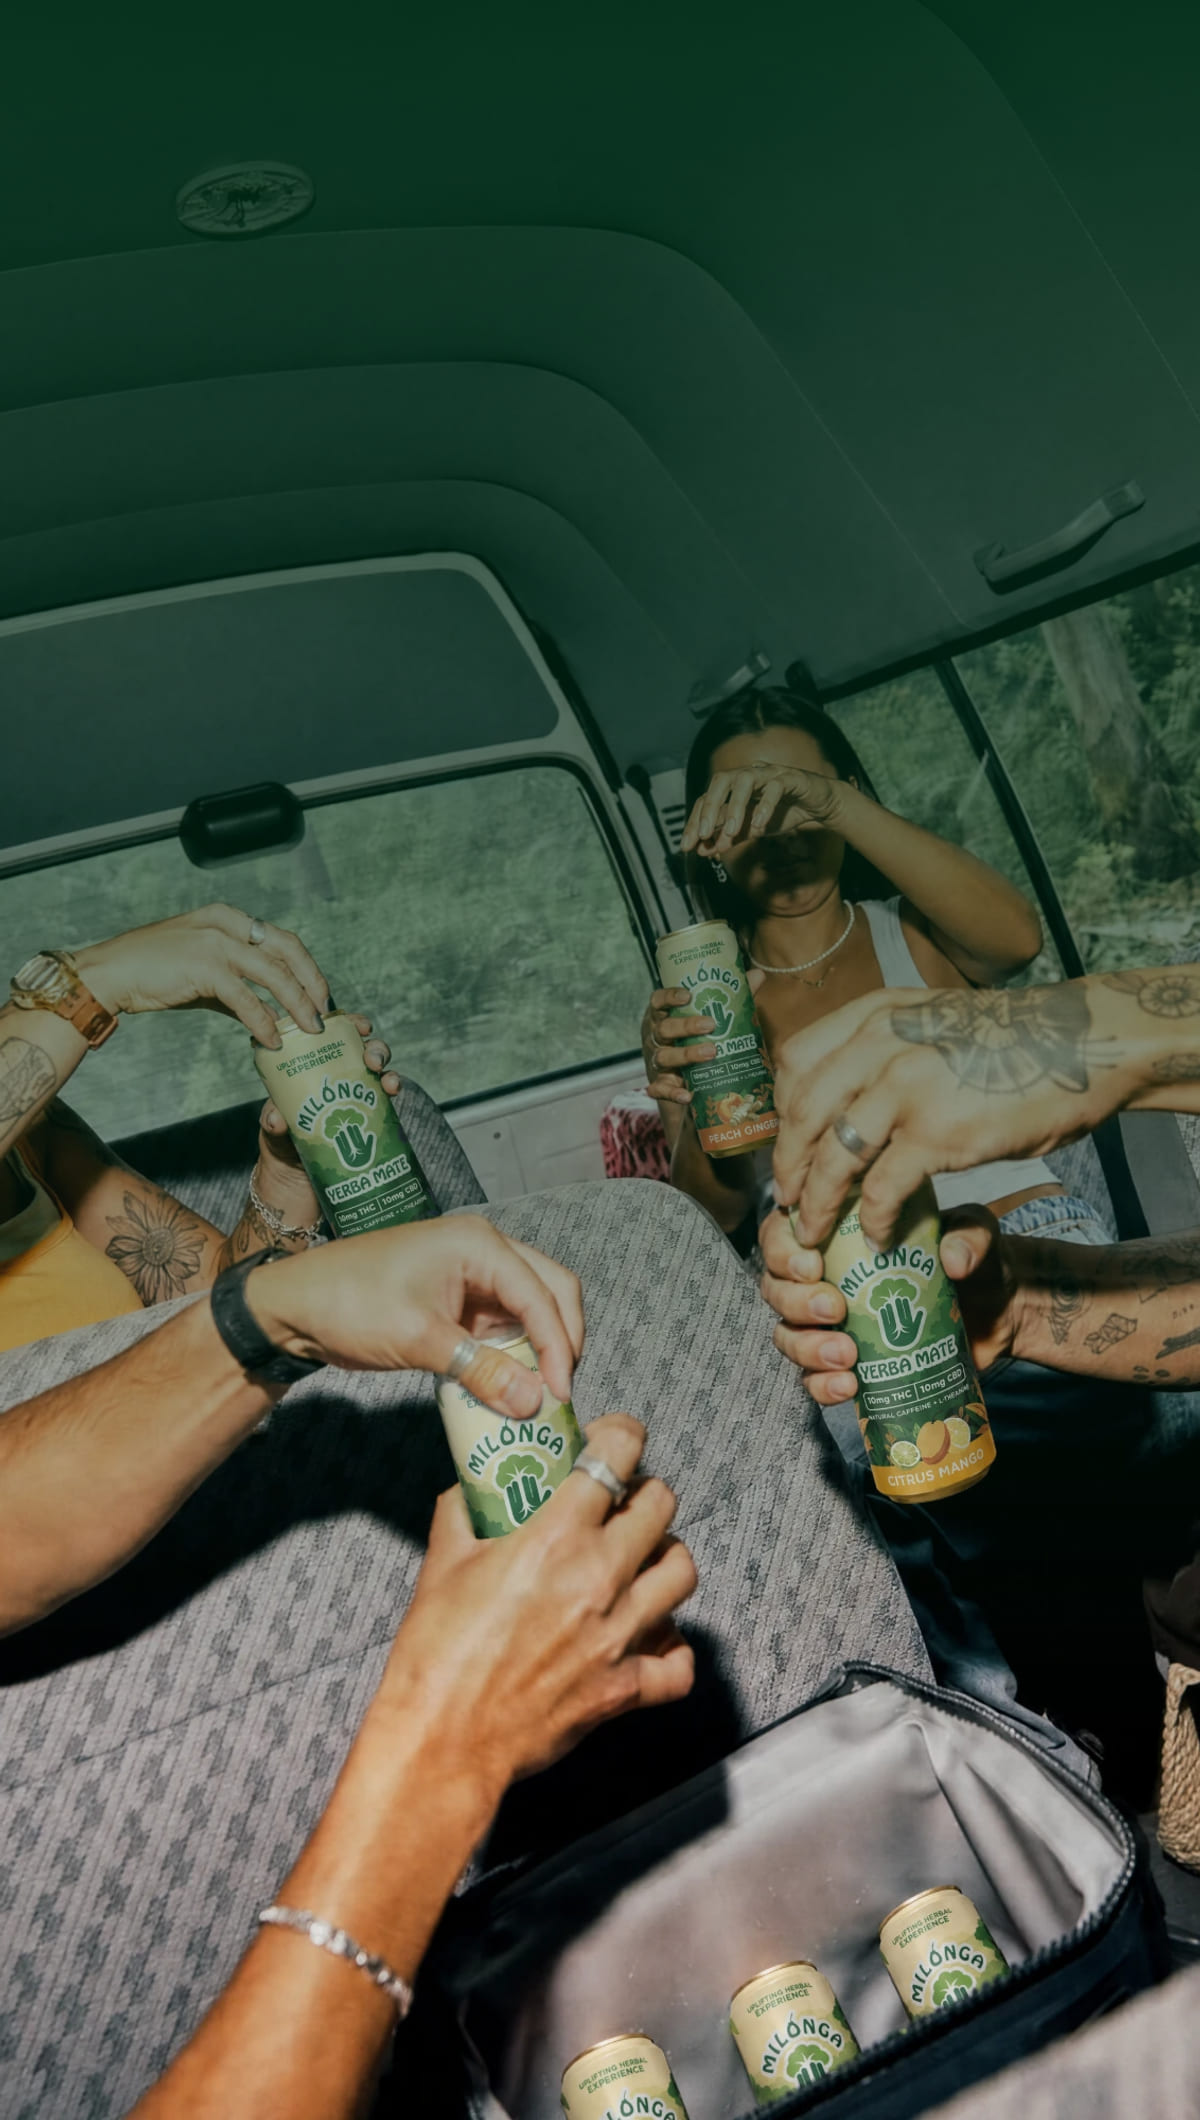
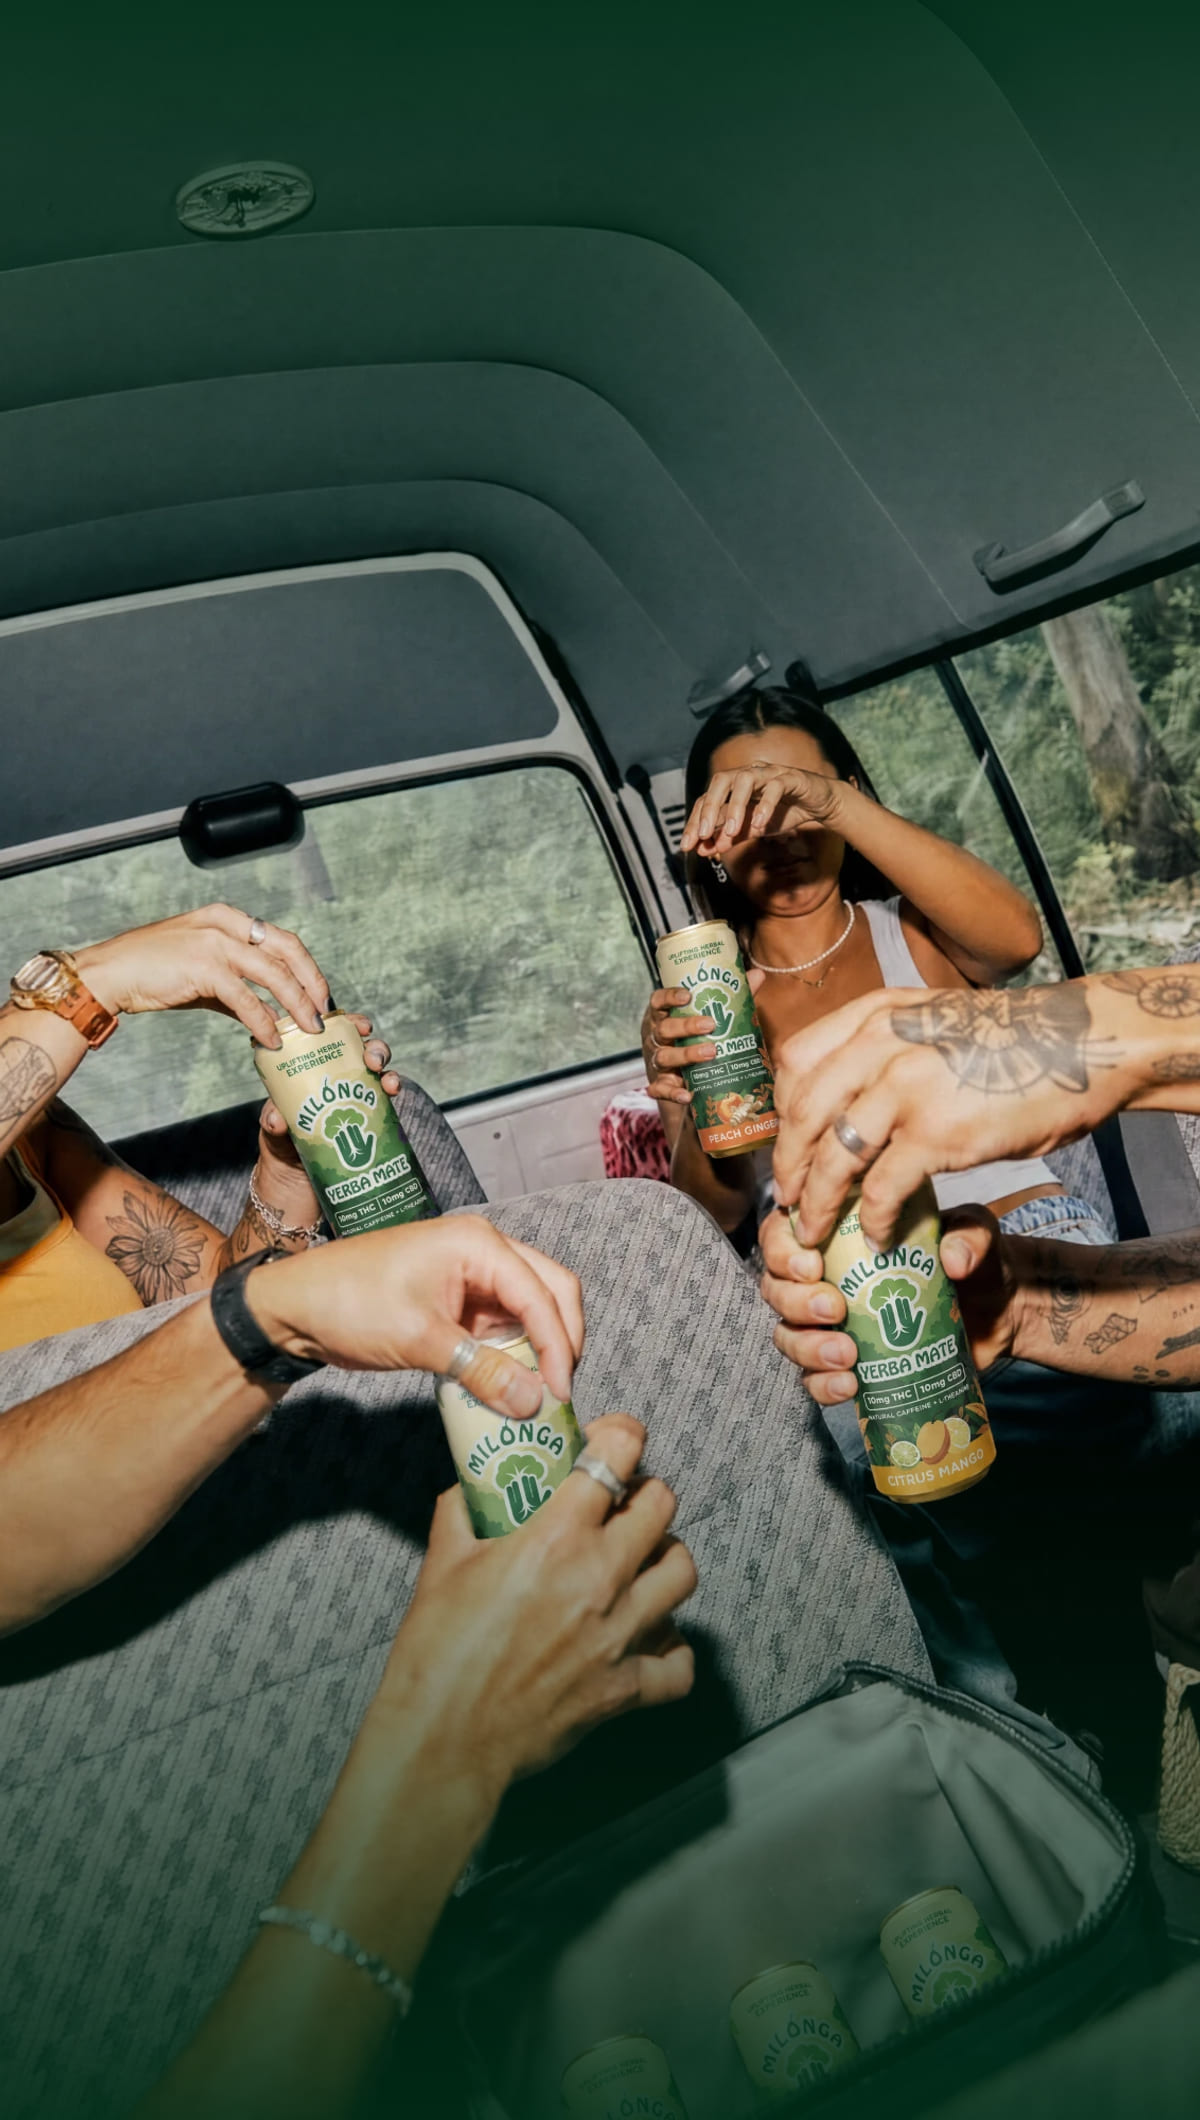
Hemp ban stock-up v3: smaller offer card beside the title; text and button at the bottom of the photo
Claude-Session: https://claude.ai/code/session_01NhEtXPnfeCJfN73SqBkUZ5

diff --git a/email-ds/exports/klaviyo/hemp-ban/hemp-ban.html b/email-ds/exports/klaviyo/hemp-ban/hemp-ban.html
@@ -25,11 +25,16 @@
     .h-hero { font-size:40px !important; line-height:43px !important; }
     .h-sec { font-size:32px !important; line-height:36px !important; }
     .lead { font-size:15px !important; line-height:23px !important; }
-    .offer-big { font-size:58px !important; line-height:60px !important; }
+    .offer-big { font-size:42px !important; line-height:44px !important; }
     .ban-col { width:100% !important; max-width:100% !important; }
     .ban-t { font-size:28px !important; line-height:31px !important; text-align:center !important; }
     .ban-in { padding:0 0 12px !important; text-align:center !important; }
     .timer { width:100% !important; max-width:300px !important; height:auto !important; }
+    .t-col { max-width:100% !important; }
+    .t-in { padding:0 0 18px !important; text-align:center !important; }
+    .t-in div { text-align:center !important; }
+    .o-col { max-width:100% !important; }
+    .hero-gap { height:300px !important; line-height:300px !important; }
     .hero { height:940px !important; background-size:cover !important; background-position:center bottom !important; }
     .can-td { width:92px !important; padding:18px 0 0 14px !important; }
     .can-img { width:76px !important; height:199px !important; }
@@ -77,18 +82,34 @@
 <!-- ── 1 · STOCK UP NOW, on the van photo (its top darkened into forest night for the white type) ── -->
 <tr><td class="hero" align="center" valign="top" height="1060" background="https://cdn.klaviyomail.com/company/TwvSnK/images/4fbcb954-7bce-48bf-bce5-1a44c39cbb9a.jpeg" bgcolor="#1E2A22" style="height:1060px;background-color:#1E2A22;background-image:url('https://cdn.klaviyomail.com/company/TwvSnK/images/4fbcb954-7bce-48bf-bce5-1a44c39cbb9a.jpeg');background-size:cover;background-position:center bottom;background-repeat:no-repeat;padding:0;">
 <!--[if gte mso 9]><v:rect xmlns:v="urn:schemas-microsoft-com:vml" fill="true" stroke="false" style="width:600px;height:1060px;"><v:fill type="frame" src="https://cdn.klaviyomail.com/company/TwvSnK/images/4fbcb954-7bce-48bf-bce5-1a44c39cbb9a.jpeg" color="#1E2A22" /><v:textbox inset="0,0,0,0"><![endif]-->
-<div class="pad" style="padding:34px 24px 0;font-family:'Montserrat','Helvetica Neue',Helvetica,Arial,sans-serif;text-align:center;">
+<!-- top: logo, then the title with a small offer card on its right (stacked and centred on phones) -->
+<div class="pad" style="padding:30px 30px 0;font-family:'Montserrat','Helvetica Neue',Helvetica,Arial,sans-serif;text-align:center;">
 <a href="https://milonga.life/?utm_source=klaviyo&amp;utm_medium=email&amp;utm_campaign=hemp_ban_stockup&amp;utm_content=logo" target="_blank" style="display:block;"><img class="hero-logo" src="https://cdn.klaviyomail.com/company/TwvSnK/images/49619f06-6898-4fee-a4f2-8e0b6387ea5b.png" width="85" height="90" alt="Milonga" style="display:block;margin:0 auto;width:85px;height:90px;border:0;"></a>
-<div style="padding-top:26px;"><div style="font-size:12px;line-height:16px;font-weight:700;letter-spacing:3px;text-transform:uppercase;color:#E3BC62;">Last call before the ban</div></div>
-<div class="h-hero" style="padding-top:10px;font-family:'Times New Roman',Times,Georgia,serif;font-size:52px;line-height:56px;font-weight:400;color:#FFFFFF;">Stock up now,</div>
-<div class="h-hero" style="font-family:'Times New Roman',Times,Georgia,serif;font-size:52px;line-height:56px;font-weight:700;font-style:italic;color:#FFFFFF;">before the ban.</div>
-<table role="presentation" cellpadding="0" cellspacing="0" border="0" align="center" style="margin:24px auto 0;border-collapse:separate;"><tr><td align="center" bgcolor="#E3BC62" style="background-color:#E3BC62;border-radius:22px;padding:16px 26px 18px;font-family:'Montserrat','Helvetica Neue',Helvetica,Arial,sans-serif;box-shadow:0 10px 26px rgba(0,0,0,.35);">
-<div style="font-size:13px;line-height:16px;font-weight:700;letter-spacing:3px;text-transform:uppercase;color:#004D27;">Up to</div>
-<div class="offer-big" style="padding-top:2px;font-family:'Times New Roman',Times,Georgia,serif;font-size:66px;line-height:68px;font-weight:700;font-style:italic;color:#004D27;white-space:nowrap;">30% off</div>
-<div style="padding-top:2px;font-size:13px;line-height:16px;font-weight:700;letter-spacing:2px;text-transform:uppercase;color:#004D27;">Our Infused cans</div>
+<div style="padding-top:26px;font-size:0;line-height:0;text-align:center;">
+<!--[if mso]><table role="presentation" width="540" cellpadding="0" cellspacing="0" border="0" align="center"><tr><td width="350" valign="middle"><![endif]-->
+<div class="t-col" style="display:inline-block;vertical-align:middle;width:100%;max-width:350px;text-align:left;font-family:'Montserrat','Helvetica Neue',Helvetica,Arial,sans-serif;">
+<div class="t-in" style="padding:0 16px 0 0;text-align:left;">
+<div style="font-size:12px;line-height:16px;font-weight:700;letter-spacing:3px;text-transform:uppercase;text-align:inherit;color:#E3BC62;">Last call before the ban</div>
+<div class="h-hero t-al" style="padding-top:10px;font-family:'Times New Roman',Times,Georgia,serif;font-size:50px;line-height:52px;font-weight:400;color:#FFFFFF;text-align:left;text-shadow:0 2px 12px rgba(0,0,0,.35);">Stock up now,</div>
+<div class="h-hero t-al" style="font-family:'Times New Roman',Times,Georgia,serif;font-size:50px;line-height:52px;font-weight:700;font-style:italic;color:#FFFFFF;text-align:left;text-shadow:0 2px 12px rgba(0,0,0,.35);">before the ban.</div>
+</div></div>
+<!--[if mso]></td><td width="190" valign="middle"><![endif]-->
+<div class="o-col" style="display:inline-block;vertical-align:middle;width:100%;max-width:190px;font-family:'Montserrat','Helvetica Neue',Helvetica,Arial,sans-serif;">
+<table role="presentation" cellpadding="0" cellspacing="0" border="0" align="center" style="margin:0 auto;border-collapse:separate;"><tr><td align="center" bgcolor="#E3BC62" style="background-color:#E3BC62;border-radius:18px;padding:12px 18px 14px;font-family:'Montserrat','Helvetica Neue',Helvetica,Arial,sans-serif;box-shadow:0 10px 24px rgba(0,0,0,.35);">
+<div style="font-size:11px;line-height:14px;font-weight:700;letter-spacing:2.5px;text-transform:uppercase;color:#004D27;">Up to</div>
+<div class="offer-big" style="font-family:'Times New Roman',Times,Georgia,serif;font-size:46px;line-height:48px;font-weight:700;font-style:italic;color:#004D27;white-space:nowrap;">30% off</div>
+<div style="font-size:10px;line-height:13px;font-weight:700;letter-spacing:1.5px;text-transform:uppercase;color:#004D27;white-space:nowrap;">Our Infused cans</div>
 </td></tr></table>
-<div style="max-width:460px;margin:0 auto;"><div class="lead" style="padding-top:22px;font-size:16px;line-height:24px;font-weight:500;color:#FFFFFF;text-shadow:0 1px 8px rgba(0,0,0,.45);">The federal THC ban takes effect on December 11, and our Infused cans may not be available after that. So we&rsquo;re taking up to 30% off to help you stock up while you <span style="white-space:nowrap;">still can.</span></div></div>
-<div style="padding:24px 0 0;"><!--[if mso]>
+</div>
+<!--[if mso]></td></tr></table><![endif]-->
+</div>
+</div>
+<!-- the photo shows through here -->
+<div class="hero-gap" style="height:470px;line-height:470px;font-size:0;">&nbsp;</div>
+<!-- bottom: the announcement and the button, on the photo's darkened bottom -->
+<div class="pad" style="padding:0 30px 40px;font-family:'Montserrat','Helvetica Neue',Helvetica,Arial,sans-serif;text-align:center;">
+<div style="max-width:460px;margin:0 auto;"><div class="lead" style="font-size:16px;line-height:24px;font-weight:500;color:#FFFFFF;text-shadow:0 1px 8px rgba(0,0,0,.55);">The federal THC ban takes effect on December 11, and our Infused cans may not be available after that. So we&rsquo;re taking up to 30% off to help you stock up while you <span style="white-space:nowrap;">still can.</span></div></div>
+<div style="padding:22px 0 0;"><!--[if mso]>
 <v:roundrect xmlns:v="urn:schemas-microsoft-com:vml" xmlns:w="urn:schemas-microsoft-com:office:word" href="https://milonga.life/collections/cannabis-infused-yerba-mate?utm_source=klaviyo&amp;utm_medium=email&amp;utm_campaign=hemp_ban_stockup&amp;utm_content=hero_button" style="height:56px;v-text-anchor:middle;width:300px;" arcsize="50%" stroke="f" fillcolor="#E3BC62"><w:anchorlock/><center style="color:#004D27;font-family:Arial,sans-serif;font-size:16px;font-weight:bold;letter-spacing:2px;">Stock up now</center></v:roundrect>
 <![endif]--><!--[if !mso]><!-- --><a href="https://milonga.life/collections/cannabis-infused-yerba-mate?utm_source=klaviyo&amp;utm_medium=email&amp;utm_campaign=hemp_ban_stockup&amp;utm_content=hero_button" target="_blank" class="btn" style="display:inline-block;background-color:#E3BC62;border-radius:999px;padding:20px 40px;font-family:'Montserrat','Helvetica Neue',Helvetica,Arial,sans-serif;font-size:16px;line-height:16px;font-weight:700;letter-spacing:2px;text-transform:uppercase;white-space:nowrap;color:#004D27;text-decoration:none;box-shadow:0 4px 0 #A8822F;">Stock up now</a><!--<![endif]--></div>
 </div>

diff --git a/email-ds/refine/hemp-ban.html b/email-ds/refine/hemp-ban.html
@@ -23,11 +23,16 @@ body{margin:0;background:#FFFFFF;padding:28px 0 60px}
     .h-hero { font-size:40px !important; line-height:43px !important; }
     .h-sec { font-size:32px !important; line-height:36px !important; }
     .lead { font-size:15px !important; line-height:23px !important; }
-    .offer-big { font-size:58px !important; line-height:60px !important; }
+    .offer-big { font-size:42px !important; line-height:44px !important; }
     .ban-col { width:100% !important; max-width:100% !important; }
     .ban-t { font-size:28px !important; line-height:31px !important; text-align:center !important; }
     .ban-in { padding:0 0 12px !important; text-align:center !important; }
     .timer { width:100% !important; max-width:300px !important; height:auto !important; }
+    .t-col { max-width:100% !important; }
+    .t-in { padding:0 0 18px !important; text-align:center !important; }
+    .t-in div { text-align:center !important; }
+    .o-col { max-width:100% !important; }
+    .hero-gap { height:300px !important; line-height:300px !important; }
     .hero { height:940px !important; background-size:cover !important; background-position:center bottom !important; }
     .can-td { width:92px !important; padding:18px 0 0 14px !important; }
     .can-img { width:76px !important; height:199px !important; }
@@ -76,18 +81,34 @@ body{margin:0;background:#FFFFFF;padding:28px 0 60px}
 <!-- ── 1 · STOCK UP NOW, on the van photo (its top darkened into forest night for the white type) ── -->
 <tr><td class="hero" align="center" valign="top" height="1060" background="../exports/klaviyo/hemp-ban/img/hero-bg.jpg" bgcolor="#1E2A22" style="height:1060px;background-color:#1E2A22;background-image:url('../exports/klaviyo/hemp-ban/img/hero-bg.jpg');background-size:cover;background-position:center bottom;background-repeat:no-repeat;padding:0;">
 <!--[if gte mso 9]><v:rect xmlns:v="urn:schemas-microsoft-com:vml" fill="true" stroke="false" style="width:600px;height:1060px;"><v:fill type="frame" src="../exports/klaviyo/hemp-ban/img/hero-bg.jpg" color="#1E2A22" /><v:textbox inset="0,0,0,0"><![endif]-->
-<div class="pad" style="padding:34px 24px 0;font-family:'Montserrat','Helvetica Neue',Helvetica,Arial,sans-serif;text-align:center;">
+<!-- top: logo, then the title with a small offer card on its right (stacked and centred on phones) -->
+<div class="pad" style="padding:30px 30px 0;font-family:'Montserrat','Helvetica Neue',Helvetica,Arial,sans-serif;text-align:center;">
 <a href="https://milonga.life/?utm_source=klaviyo&amp;utm_medium=email&amp;utm_campaign=hemp_ban_stockup&amp;utm_content=logo" target="_blank" style="display:block;"><img class="hero-logo" src="../exports/klaviyo/pp1-e1/img/logo-white.png" width="85" height="90" alt="Milonga" style="display:block;margin:0 auto;width:85px;height:90px;border:0;"></a>
-<div style="padding-top:26px;"><div style="font-size:12px;line-height:16px;font-weight:700;letter-spacing:3px;text-transform:uppercase;color:#E3BC62;">Last call before the ban</div></div>
-<div class="h-hero" style="padding-top:10px;font-family:'Times New Roman',Times,Georgia,serif;font-size:52px;line-height:56px;font-weight:400;color:#FFFFFF;">Stock up now,</div>
-<div class="h-hero" style="font-family:'Times New Roman',Times,Georgia,serif;font-size:52px;line-height:56px;font-weight:700;font-style:italic;color:#FFFFFF;">before the ban.</div>
-<table role="presentation" cellpadding="0" cellspacing="0" border="0" align="center" style="margin:24px auto 0;border-collapse:separate;"><tr><td align="center" bgcolor="#E3BC62" style="background-color:#E3BC62;border-radius:22px;padding:16px 26px 18px;font-family:'Montserrat','Helvetica Neue',Helvetica,Arial,sans-serif;box-shadow:0 10px 26px rgba(0,0,0,.35);">
-<div style="font-size:13px;line-height:16px;font-weight:700;letter-spacing:3px;text-transform:uppercase;color:#004D27;">Up to</div>
-<div class="offer-big" style="padding-top:2px;font-family:'Times New Roman',Times,Georgia,serif;font-size:66px;line-height:68px;font-weight:700;font-style:italic;color:#004D27;white-space:nowrap;">30% off</div>
-<div style="padding-top:2px;font-size:13px;line-height:16px;font-weight:700;letter-spacing:2px;text-transform:uppercase;color:#004D27;">Our Infused cans</div>
+<div style="padding-top:26px;font-size:0;line-height:0;text-align:center;">
+<!--[if mso]><table role="presentation" width="540" cellpadding="0" cellspacing="0" border="0" align="center"><tr><td width="350" valign="middle"><![endif]-->
+<div class="t-col" style="display:inline-block;vertical-align:middle;width:100%;max-width:350px;text-align:left;font-family:'Montserrat','Helvetica Neue',Helvetica,Arial,sans-serif;">
+<div class="t-in" style="padding:0 16px 0 0;text-align:left;">
+<div style="font-size:12px;line-height:16px;font-weight:700;letter-spacing:3px;text-transform:uppercase;text-align:inherit;color:#E3BC62;">Last call before the ban</div>
+<div class="h-hero t-al" style="padding-top:10px;font-family:'Times New Roman',Times,Georgia,serif;font-size:50px;line-height:52px;font-weight:400;color:#FFFFFF;text-align:left;text-shadow:0 2px 12px rgba(0,0,0,.35);">Stock up now,</div>
+<div class="h-hero t-al" style="font-family:'Times New Roman',Times,Georgia,serif;font-size:50px;line-height:52px;font-weight:700;font-style:italic;color:#FFFFFF;text-align:left;text-shadow:0 2px 12px rgba(0,0,0,.35);">before the ban.</div>
+</div></div>
+<!--[if mso]></td><td width="190" valign="middle"><![endif]-->
+<div class="o-col" style="display:inline-block;vertical-align:middle;width:100%;max-width:190px;font-family:'Montserrat','Helvetica Neue',Helvetica,Arial,sans-serif;">
+<table role="presentation" cellpadding="0" cellspacing="0" border="0" align="center" style="margin:0 auto;border-collapse:separate;"><tr><td align="center" bgcolor="#E3BC62" style="background-color:#E3BC62;border-radius:18px;padding:12px 18px 14px;font-family:'Montserrat','Helvetica Neue',Helvetica,Arial,sans-serif;box-shadow:0 10px 24px rgba(0,0,0,.35);">
+<div style="font-size:11px;line-height:14px;font-weight:700;letter-spacing:2.5px;text-transform:uppercase;color:#004D27;">Up to</div>
+<div class="offer-big" style="font-family:'Times New Roman',Times,Georgia,serif;font-size:46px;line-height:48px;font-weight:700;font-style:italic;color:#004D27;white-space:nowrap;">30% off</div>
+<div style="font-size:10px;line-height:13px;font-weight:700;letter-spacing:1.5px;text-transform:uppercase;color:#004D27;white-space:nowrap;">Our Infused cans</div>
 </td></tr></table>
-<div style="max-width:460px;margin:0 auto;"><div class="lead" style="padding-top:22px;font-size:16px;line-height:24px;font-weight:500;color:#FFFFFF;text-shadow:0 1px 8px rgba(0,0,0,.45);">The federal THC ban takes effect on December 11, and our Infused cans may not be available after that. So we&rsquo;re taking up to 30% off to help you stock up while you <span style="white-space:nowrap;">still can.</span></div></div>
-<div style="padding:24px 0 0;"><!--[if mso]>
+</div>
+<!--[if mso]></td></tr></table><![endif]-->
+</div>
+</div>
+<!-- the photo shows through here -->
+<div class="hero-gap" style="height:470px;line-height:470px;font-size:0;">&nbsp;</div>
+<!-- bottom: the announcement and the button, on the photo's darkened bottom -->
+<div class="pad" style="padding:0 30px 40px;font-family:'Montserrat','Helvetica Neue',Helvetica,Arial,sans-serif;text-align:center;">
+<div style="max-width:460px;margin:0 auto;"><div class="lead" style="font-size:16px;line-height:24px;font-weight:500;color:#FFFFFF;text-shadow:0 1px 8px rgba(0,0,0,.55);">The federal THC ban takes effect on December 11, and our Infused cans may not be available after that. So we&rsquo;re taking up to 30% off to help you stock up while you <span style="white-space:nowrap;">still can.</span></div></div>
+<div style="padding:22px 0 0;"><!--[if mso]>
 <v:roundrect xmlns:v="urn:schemas-microsoft-com:vml" xmlns:w="urn:schemas-microsoft-com:office:word" href="https://milonga.life/collections/cannabis-infused-yerba-mate?utm_source=klaviyo&amp;utm_medium=email&amp;utm_campaign=hemp_ban_stockup&amp;utm_content=hero_button" style="height:56px;v-text-anchor:middle;width:300px;" arcsize="50%" stroke="f" fillcolor="#E3BC62"><w:anchorlock/><center style="color:#004D27;font-family:Arial,sans-serif;font-size:16px;font-weight:bold;letter-spacing:2px;">Stock up now</center></v:roundrect>
 <![endif]--><!--[if !mso]><!-- --><a href="https://milonga.life/collections/cannabis-infused-yerba-mate?utm_source=klaviyo&amp;utm_medium=email&amp;utm_campaign=hemp_ban_stockup&amp;utm_content=hero_button" target="_blank" class="btn" style="display:inline-block;background-color:#E3BC62;border-radius:999px;padding:20px 40px;font-family:'Montserrat','Helvetica Neue',Helvetica,Arial,sans-serif;font-size:16px;line-height:16px;font-weight:700;letter-spacing:2px;text-transform:uppercase;white-space:nowrap;color:#004D27;text-decoration:none;box-shadow:0 4px 0 #A8822F;">Stock up now</a><!--<![endif]--></div>
 </div>
